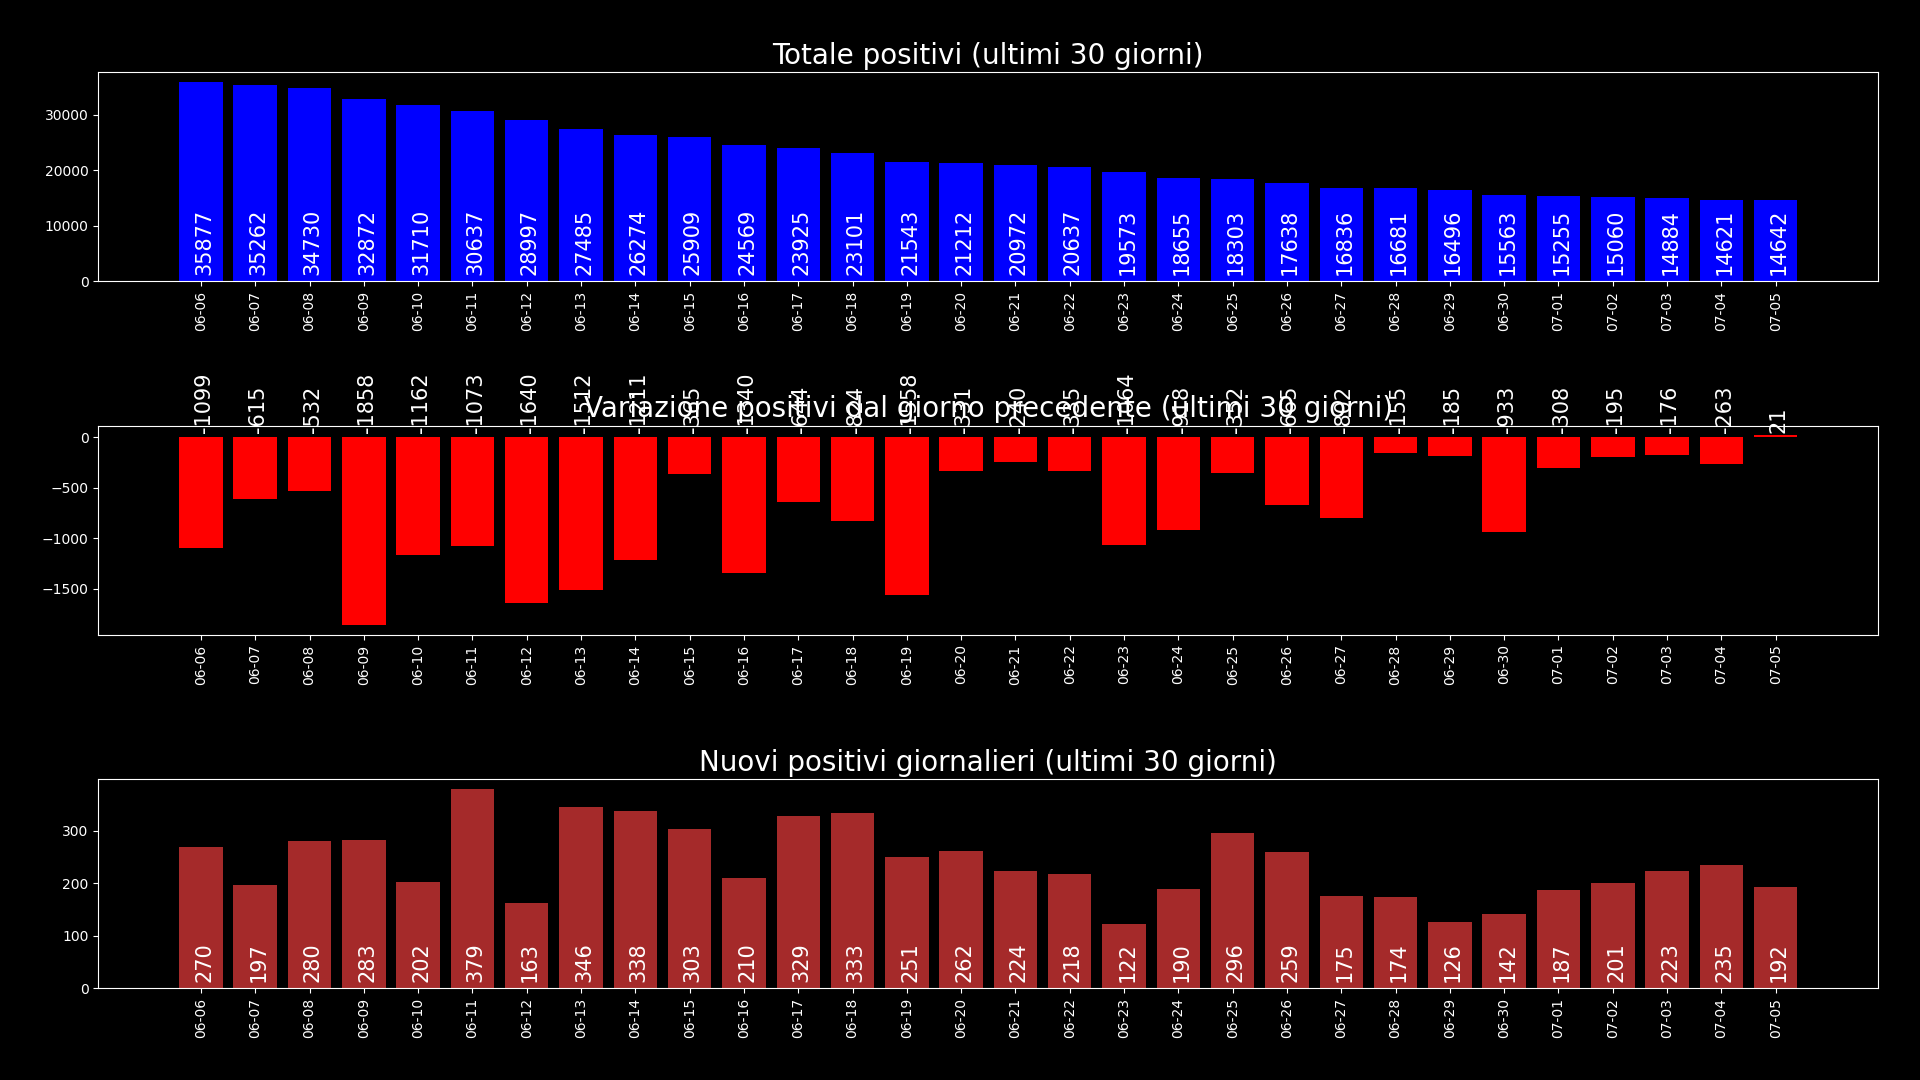
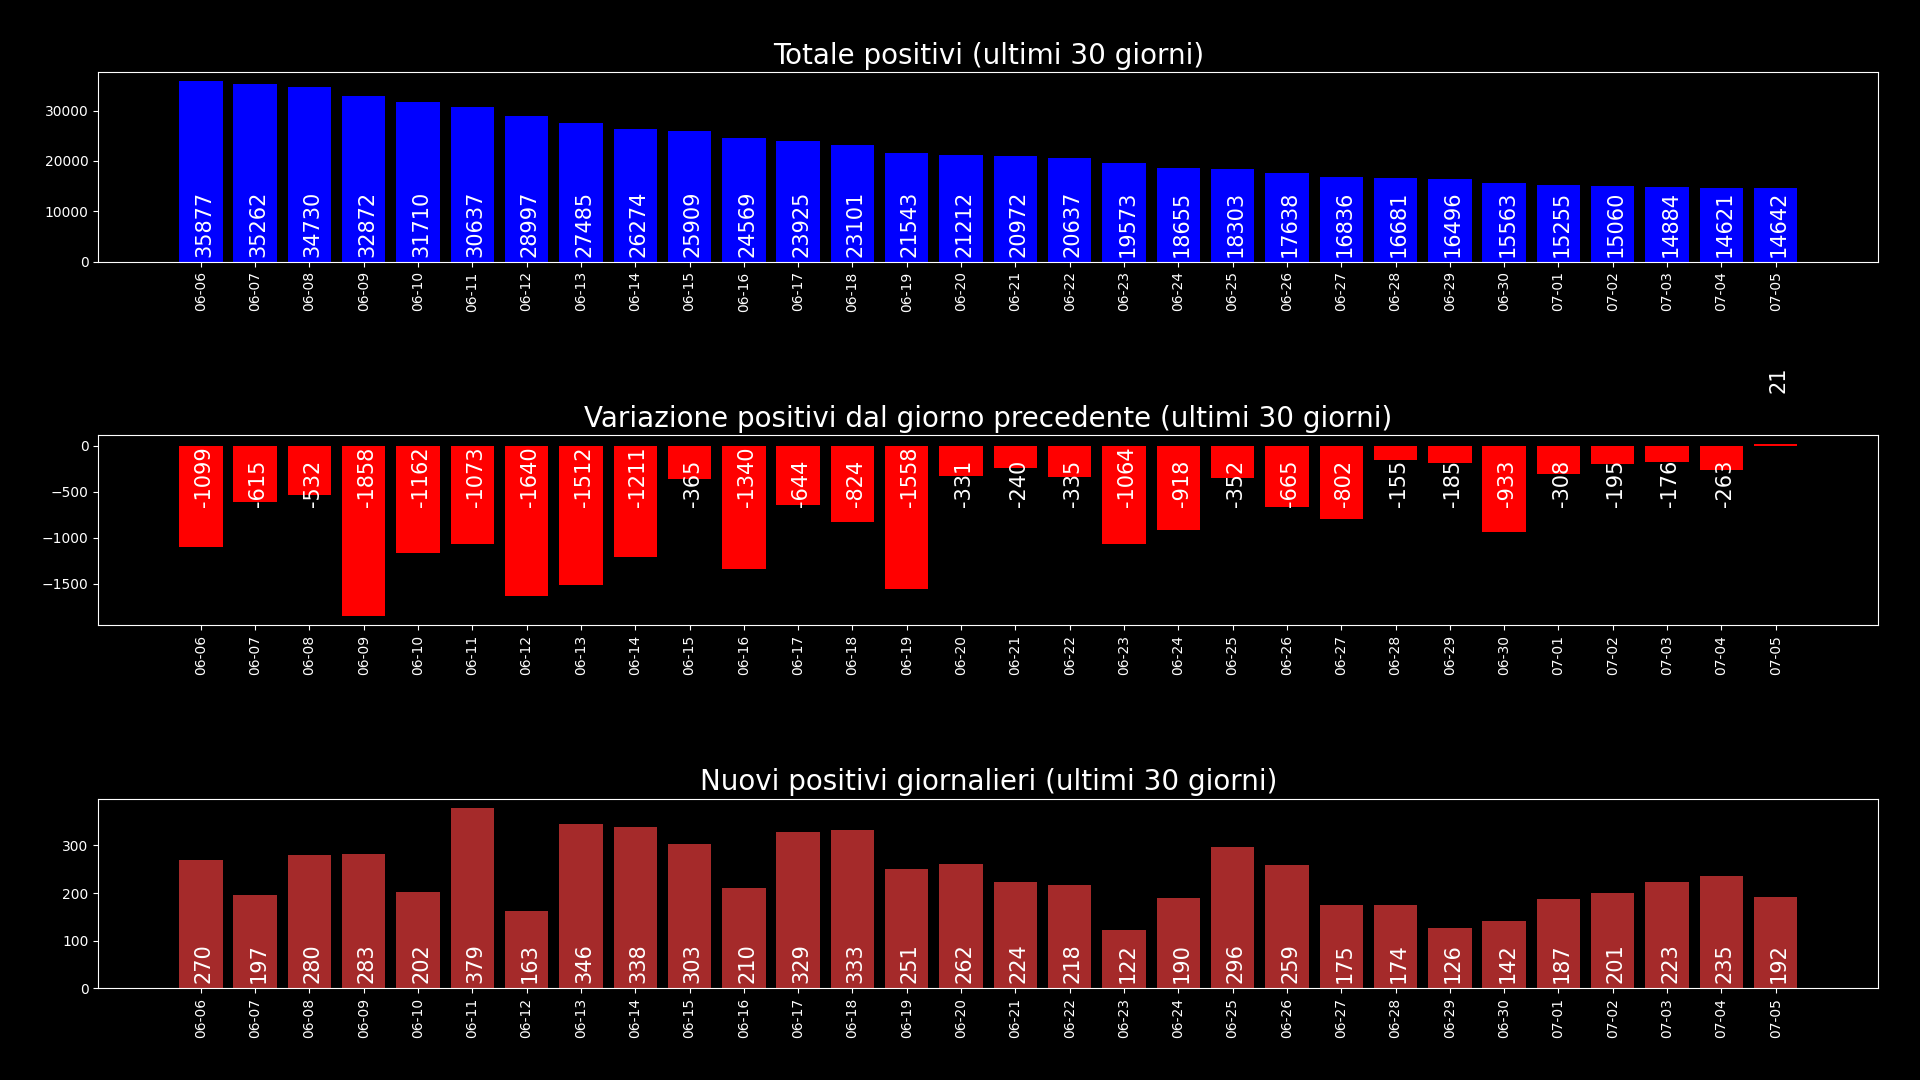
Fixed labels

diff --git a/covid19graphs/src/totposandnewpos.py b/covid19graphs/src/totposandnewpos.py
@@ -20,8 +20,13 @@ def filter_date(dataframe):
     return
 
 def add_text_overbar(dataframe, title, color, offset, ax):
+    listadati = [h if h > 0 else -h for h in dataframe[title]]
+    maxval = max(listadati)
     for i, v in enumerate(dataframe[title]):
-            ax.text(i-0.125, offset*max(dataframe[title]), str(v), rotation=90, color=color, fontsize=15)
+        if (v < 0):
+            ax.text(i-0.125, -offset*maxval, str(v), rotation=90, color=color, fontsize=15)
+        else:
+            ax.text(i-0.125, offset*maxval, str(v), rotation=90, color=color, fontsize=15)
 
 def rotate_ticks(axes):
     for ax in axes:
@@ -56,7 +61,7 @@ def main():
     #Sezione variazione positivi
     axes[1].set_title('Variazione positivi dal giorno precedente (ultimi 30 giorni)', fontsize=20)
     #Inserisco etichette per ogni barra
-    add_text_overbar(dataframe, 'variazione_totale_positivi', "white", 4, axes[1])
+    add_text_overbar(dataframe, 'variazione_totale_positivi', "white", 1/3, axes[1])
     #axes[1] conterrà il secondo grafico a barre
     axes[1].bar(x, dataframe['variazione_totale_positivi'], color="red")
 
